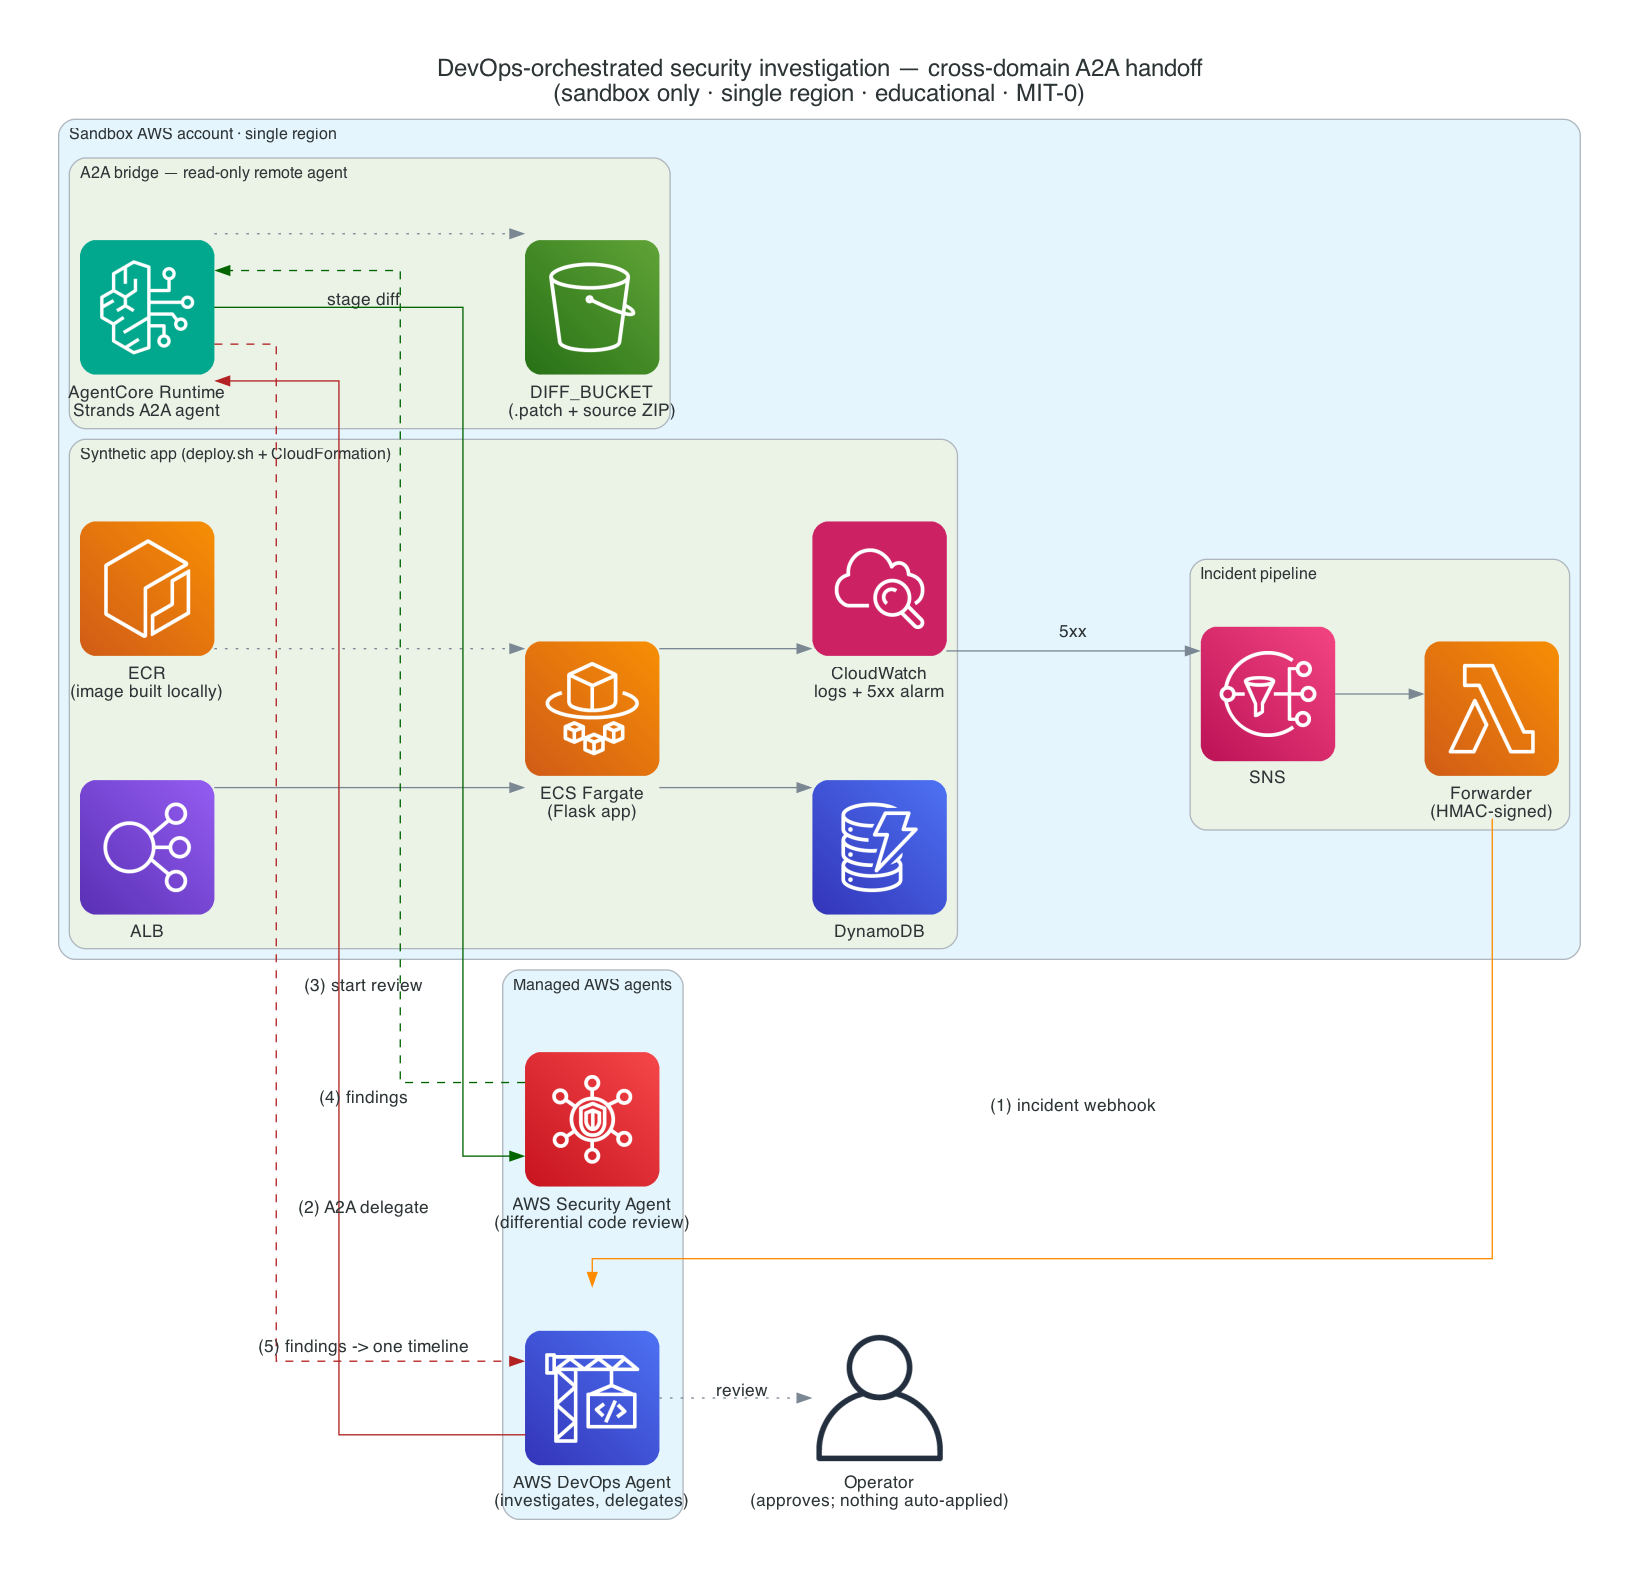
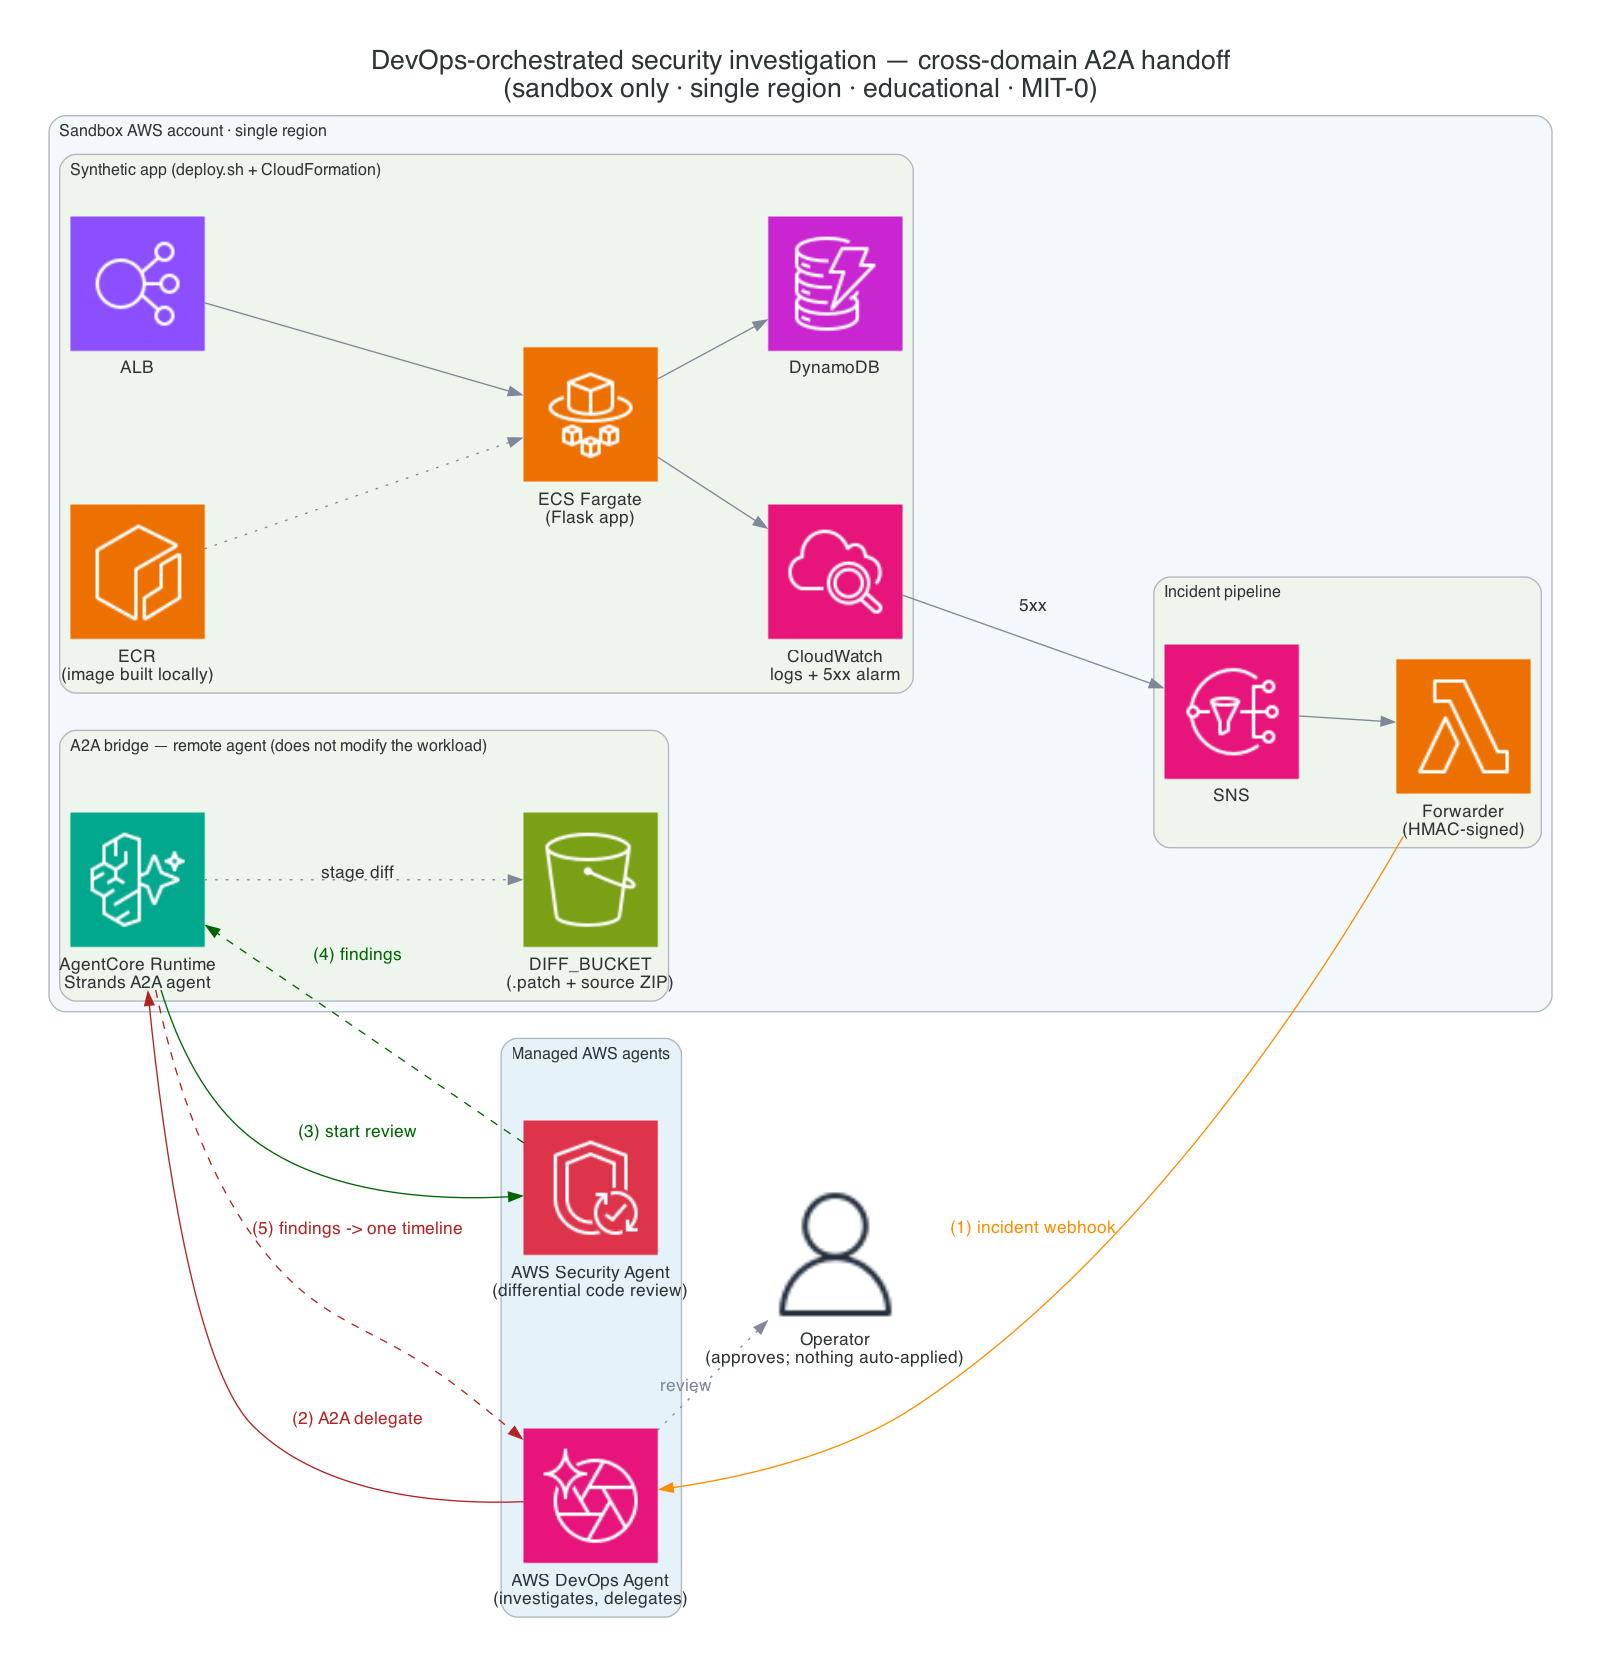
Update architecture diagram

diff --git a/docs/architecture_diagram.py b/docs/architecture_diagram.py
@@ -1,0 +1,100 @@
+"""Render docs/architecture.png with the official AWS Architecture Icons.
+
+The icons are not bundled in this repository. Download the current
+"Architecture Icons" asset package from https://aws.amazon.com/architecture/icons/,
+unzip it (and the zip files inside it), and point AWS_ICONS at the folder that
+contains Architecture-Service-Icons_<date> and Resource-Icons_<date>.
+
+    pip install diagrams          # also needs Graphviz: brew install graphviz
+    AWS_ICONS=/path/to/icon-package python docs/architecture_diagram.py
+"""
+
+import glob
+import os
+import sys
+
+from diagrams import Cluster, Diagram, Edge
+from diagrams.custom import Custom
+
+ICONS = os.environ.get("AWS_ICONS")
+if not ICONS or not os.path.isdir(ICONS):
+    sys.exit("Set AWS_ICONS to the unzipped AWS Architecture Icons package folder.")
+
+
+def icon(pattern: str) -> str:
+    """Return the one icon file in the package that matches pattern."""
+    hits = [h for h in glob.glob(os.path.join(ICONS, "**", pattern), recursive=True)
+            if "__MACOSX" not in h]
+    if len(hits) != 1:
+        sys.exit(f"Expected exactly one icon for {pattern!r}, found {len(hits)}.")
+    return hits[0]
+
+
+SVC = "Arch_{}_64.png"
+AGENTCORE = icon(SVC.format("Amazon-Bedrock-AgentCore"))
+S3 = icon(SVC.format("Amazon-Simple-Storage-Service"))
+ECR = icon(SVC.format("Amazon-Elastic-Container-Registry"))
+FARGATE = icon(SVC.format("AWS-Fargate"))
+CLOUDWATCH = icon(SVC.format("Amazon-CloudWatch"))
+ELB = icon(SVC.format("Elastic-Load-Balancing"))
+DYNAMODB = icon(SVC.format("Amazon-DynamoDB"))
+SNS = icon(SVC.format("Amazon-Simple-Notification-Service"))
+LAMBDA = icon(SVC.format("AWS-Lambda"))
+SECURITY_AGENT = icon(SVC.format("AWS-Security-Agent"))
+DEVOPS_AGENT = icon(SVC.format("AWS-DevOps-Agent"))
+USER = icon("Res_User_48_Light.png")
+
+OUT = os.path.join(os.path.dirname(os.path.abspath(__file__)), "architecture")
+
+GRAPH = {"fontsize": "20", "labelloc": "t", "pad": "0.4", "nodesep": "0.9", "ranksep": "1.0", "splines": "spline",
+         "fontname": "Helvetica"}
+NODE = {"fontsize": "13", "fontname": "Helvetica"}
+EDGE = {"fontsize": "13", "fontname": "Helvetica"}
+GREY = "#7d8998"
+
+with Diagram(
+    "DevOps-orchestrated security investigation — cross-domain A2A handoff\n"
+    "(sandbox only · single region · educational · MIT-0)",
+    filename=OUT, outformat="png", show=False, direction="LR",
+    graph_attr=GRAPH, node_attr=NODE, edge_attr=EDGE,
+):
+    with Cluster("Managed AWS agents", graph_attr={"bgcolor": "#E6F2FA"}):
+        devops = Custom("AWS DevOps Agent\n(investigates, delegates)", DEVOPS_AGENT)
+        security = Custom("AWS Security Agent\n(differential code review)", SECURITY_AGENT)
+
+    operator = Custom("Operator\n(approves; nothing auto-applied)", USER)
+
+    with Cluster("Sandbox AWS account · single region", graph_attr={"bgcolor": "#F2F8FC"}):
+        with Cluster("A2A bridge — remote agent (does not modify the workload)",
+                     graph_attr={"bgcolor": "#EEF5EC"}):
+            bridge = Custom("AgentCore Runtime\nStrands A2A agent", AGENTCORE)
+            bucket = Custom("DIFF_BUCKET\n(.patch + source ZIP)", S3)
+
+        with Cluster("Synthetic app (deploy.sh + CloudFormation)",
+                     graph_attr={"bgcolor": "#EEF5EC"}):
+            ecr = Custom("ECR\n(image built locally)", ECR)
+            alb = Custom("ALB", ELB)
+            fargate = Custom("ECS Fargate\n(Flask app)", FARGATE)
+            cloudwatch = Custom("CloudWatch\nlogs + 5xx alarm", CLOUDWATCH)
+            table = Custom("DynamoDB", DYNAMODB)
+
+        with Cluster("Incident pipeline", graph_attr={"bgcolor": "#EEF5EC"}):
+            sns = Custom("SNS", SNS)
+            forwarder = Custom("Forwarder\n(HMAC-signed)", LAMBDA)
+
+    # The app and the incident pipeline.
+    ecr >> Edge(color=GREY, style="dotted") >> fargate
+    alb >> Edge(color=GREY) >> fargate
+    fargate >> Edge(color=GREY) >> cloudwatch
+    fargate >> Edge(color=GREY) >> table
+    cloudwatch >> Edge(color=GREY, label="5xx") >> sns
+    sns >> Edge(color=GREY) >> forwarder
+
+    # The numbered agent flow.
+    forwarder >> Edge(color="darkorange", fontcolor="darkorange", label="(1) incident webhook") >> devops
+    devops >> Edge(color="firebrick", fontcolor="firebrick", label="(2) A2A delegate") >> bridge
+    bridge >> Edge(color=GREY, style="dotted", label="stage diff") >> bucket
+    bridge >> Edge(color="darkgreen", fontcolor="darkgreen", label="(3) start review") >> security
+    security >> Edge(color="darkgreen", fontcolor="darkgreen", style="dashed", label="(4) findings") >> bridge
+    bridge >> Edge(color="firebrick", fontcolor="firebrick", style="dashed", label="(5) findings -> one timeline") >> devops
+    devops >> Edge(color=GREY, fontcolor=GREY, style="dotted", xlabel="review") >> operator

diff --git a/README.md b/README.md
@@ -35,6 +35,7 @@ applied automatically.
 
 ![Architecture](docs/architecture.png)
 
+*Drawn with the official [AWS Architecture Icons](https://aws.amazon.com/architecture/icons/); source: [`docs/architecture_diagram.py`](docs/architecture_diagram.py).*
 
 The end-to-end flow, validated live:
 
@@ -471,7 +472,8 @@ done, revert the app:
 ├── deploy.sh                      # build image locally, push to ECR, deploy the stack
 ├── teardown.sh                    # delete the stack and app image; prints manual removals
 ├── docs/
-│   └── architecture.png           # the architecture diagram embedded above
+│   ├── architecture.png           # the architecture diagram embedded above
+│   └── architecture_diagram.py    # regenerates the diagram from the official AWS icons
 ├── app/                           # the deliberately-flawed Flask app
 │   ├── app.py                     # ALB→Fargate→DynamoDB service; the vulnerable route
 │   ├── Dockerfile                 # image built locally by deploy.sh
